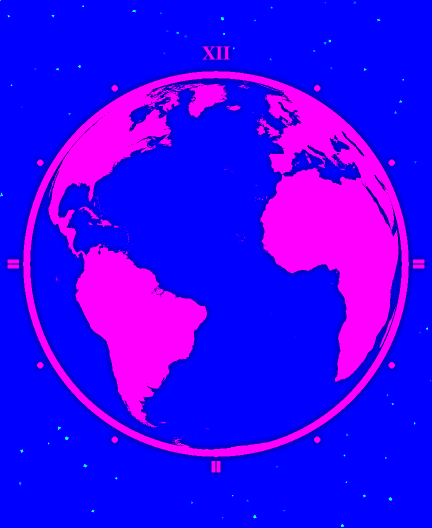
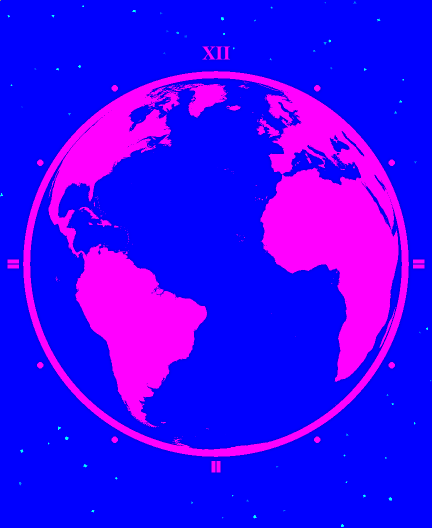
World face: match the photos' materials [skip ci]
Champagne rose gold with broad stamped terrain and fine satin grain (no blobs, no dark coastal outline);
deep violet-ultramarine lacquer with thicker veins; soft elongated window reflection instead of a round spot;
brighter polished hands.

Claude-Session: https://claude.ai/code/session_01CfMfrQKX5i7H9ozqx2Wsxs

diff --git a/Watch/WorldFaceView.swift b/Watch/WorldFaceView.swift
@@ -197,7 +197,7 @@ enum Lighting {
         let fill: SIMD3<Double>
     }
 
-    static let gold = SIMD3<Double>(1.00, 0.65, 0.32)
+    static let gold = SIMD3<Double>(1.00, 0.80, 0.55)   // champagne rose gold, as in the shader
 
     /// Same lights as the shader: "up" is opposite to gravity; screen y points down.
     static func lights(_ g: SIMD3<Double>) -> Lights {
@@ -213,7 +213,7 @@ enum Lighting {
     }
 
     /// Polished rose gold seen straight on, for a surface with this normal (envMetal in WorldDial.fsh).
-    static func metalColor(normal n: SIMD3<Double>, lights: Lights, boost: Double = 1.25) -> Color {
+    static func metalColor(normal n: SIMD3<Double>, lights: Lights, boost: Double = 1.4) -> Color {
         let v = SIMD3<Double>(0, 0, 1)
         let nov = max(simd_dot(n, v), 0.001)
         let r = 2 * nov * n - v
@@ -222,7 +222,7 @@ enum Lighting {
         let room = (0.03 + t * t) * viewer
         let k = min(max(simd_dot(r, lights.key), 0), 1)
         let f = min(max(simd_dot(r, lights.fill), 0), 1)
-        let e = 8 + (1 - 0.25) * 70.0
+        let e = 8 + (1 - 0.1) * 70.0   // polished hands: sharper than the satin relief
         let env = room + 1.6 * pow(k, e) + 4 * pow(k, e * 5) + 1.1 * pow(f, e * 0.7)
         let fres = gold + (SIMD3<Double>(repeating: 1) - gold) * pow(1 - nov, 5)
         let c = fres * env * boost

diff --git a/tools/textures/gen_world_dial.py b/tools/textures/gen_world_dial.py
@@ -147,15 +147,16 @@ def main(geojson, out_dir):
     d_in = ndimage.distance_transform_edt(land_bin)          # inside land, distance to coast
     d_out = ndimage.distance_transform_edt(~land_bin)        # in ocean, distance to coast
 
-    # --- stamped rose-gold relief: raised shoulder at the coast, ridged mountains, crumpled leaf texture
-    shoulder = np.clip(d_in / (5 * SS), 0, 1)
+    # --- stamped rose-gold relief, like the photos: broad terrain (ranges, plateaus) under a fine satin grain,
+    # with a thin crisp bevel at the coast. No mid-size blobs: those read as cork / plastic.
+    shoulder = np.clip(d_in / (2.2 * SS), 0, 1)
     shoulder = shoulder * shoulder * (3 - 2 * shoulder)
-    mountains = ridged(shape, 7, 5, 11)
-    mountains = np.clip((mountains - 0.35) / 0.65, 0, 1) ** 1.6
-    inland = np.clip(d_in / (22 * SS), 0, 1)
-    leaf = crumple(shape, 9000, 5) * 0.55 + crumple(shape, 36000, 6) * 0.30
-    grain = fbm(shape, 140, 2, 9) * 0.12
-    gold_h = 0.42 * shoulder + 0.38 * mountains * inland * shoulder + 0.22 * (1 - leaf) * shoulder + grain * shoulder
+    terrain = ridged(shape, 5, 5, 11)
+    terrain = np.clip((terrain - 0.30) / 0.70, 0, 1) ** 1.3
+    folds = ridged(shape, 22, 3, 12) * 0.35                     # creases of the stamping, softer than the ranges
+    inland = np.clip(d_in / (10 * SS), 0, 1)
+    grain = fbm(shape, 260, 2, 9) * 0.06                         # satin grain
+    gold_h = 0.22 * shoulder + (0.55 * terrain + folds) * inland * shoulder + grain * shoulder
     gold_h = gold_h * land
 
     # --- globe rim (half-round raised gold bezel) and applied markers
@@ -178,8 +179,10 @@ def main(geojson, out_dir):
     warp_y = fbm(shape, 4, 3, 32) * 40 * SS
     yy, xx = np.mgrid[0:GH, 0:GW]
     flow = ndimage.map_coordinates(fbm(shape, 9, 4, 33), [np.clip(yy + warp_y, 0, GH - 1), np.clip(xx + warp_x, 0, GW - 1)], order=1)
-    meniscus = np.clip(d_out / (9 * SS), 0, 1) ** 0.6
-    thick_globe = (0.78 + 0.28 * flow) * (0.45 + 0.55 * meniscus)
+    meniscus = np.clip(d_out / (4 * SS), 0, 1) ** 0.6
+    veins = ridged(shape, 6, 4, 34)
+    veins = np.clip((veins - 0.66) / 0.34, 0, 1) ** 1.6               # thin branching streaks of thicker lacquer
+    thick_globe = (0.75 + 0.30 * flow + 1.1 * veins) * (0.6 + 0.4 * meniscus)
     space = ~globe
     thick_space = 2.4 + 0.25 * fbm(shape, 5, 3, 41)    # deeper, darker lacquer outside the globe
     thickness = np.where(globe, thick_globe, thick_space)
@@ -188,14 +191,13 @@ def main(geojson, out_dir):
     # --- height field of the metal (gold relief or base), plus the globe dome
     Rs = R * 1.9                                            # shallow spherical dome
     dome = np.sqrt(np.clip(Rs ** 2 - np.minimum(r_px, R) ** 2, 0, None)) - np.sqrt(Rs ** 2 - R ** 2)
-    relief_scale = 7.0 * SS
+    relief_scale = 9.0 * SS
     metal_h = dome + relief_scale * np.where(gold_mask > 0.5, height_metal, base)
 
     gy, gx = np.gradient(ndimage.gaussian_filter(metal_h, 0.6))
     n_metal = np.stack([-gx, -gy, np.ones_like(gx)], -1)
 
-    # Hammered / stamped facets: small flat planes with their own tilt. Polished gold reads as gold because each
-    # facet either mirrors a light (flash) or the dark room (deep brown) — not a smooth matte gradient.
+    # Fine satin micro-facets on the gold: tiny, low tilt — a sparkle in the grain, not visible patches.
     def facets(n_points, seed, amount):
         r = np.random.default_rng(seed)
         pts = r.random((n_points, 2)) * np.array(shape)
@@ -204,7 +206,7 @@ def main(geojson, out_dir):
         tilt = r.normal(0, amount, (n_points, 2))
         return tilt[idx].reshape(shape[0], shape[1], 2)
 
-    tilt = facets(9000, 51, 0.20) + facets(40000, 52, 0.07)
+    tilt = facets(160000, 52, 0.06)
     on_gold = (land * globe * shoulder)[..., None]
     n_metal[..., 0:2] += tilt * on_gold
     n_metal /= np.linalg.norm(n_metal, axis=-1, keepdims=True)
@@ -226,7 +228,7 @@ def main(geojson, out_dir):
     flakes *= (gold_mask < 0.5)
 
     # --- ambient occlusion: lacquer next to raised gold is shaded a little
-    ao = 1 - 0.35 * np.clip(ndimage.gaussian_filter(gold_mask, 3 * SS) - gold_mask, 0, 1) * 2
+    ao = 1 - 0.12 * np.clip(ndimage.gaussian_filter(gold_mask, 1.5 * SS) - gold_mask, 0, 1) * 2
 
     material = gold_mask
     b_chan = np.where(material > 0.5, np.clip(height_metal, 0, 1), np.clip(thickness / 2.8, 0, 1))

diff --git a/tools/textures/preview_shader.py b/tools/textures/preview_shader.py
@@ -8,9 +8,9 @@ import sys
 import numpy as np
 from PIL import Image
 
-GOLD = np.array([1.00, 0.65, 0.32])        # rose-yellow gold reflectance (display-referred)
-SIGMA = np.array([5.0, 3.1, 0.38])         # blue lacquer absorption per unit thickness (absorbs red, green)
-PIGMENT = np.array([0.010, 0.028, 0.20])   # light scattered back by the blue pigment
+GOLD = np.array([1.00, 0.80, 0.55])        # pale champagne rose gold (5N, satin), display-referred
+SIGMA = np.array([3.4, 4.2, 0.55])         # ultramarine lacquer: absorbs green most, a little red passes (violet cast)
+PIGMENT = np.array([0.030, 0.018, 0.21])   # light scattered back by the pigment (violet-blue)
 
 
 def norm(v):
@@ -40,13 +40,15 @@ def env_metal(r, up, key, fill, rough, viewer_dark=0.55):
     return room + 1.6 * k ** e + 4.0 * k ** (e * 5) + 1.1 * f ** (e * 0.7)
 
 
-def env_coat(r, key, fill):
+def env_coat(r, up, key, fill):
+    """What the polished lacquer mirrors: a soft, elongated window (not a disk) and a broad bright ceiling sheen."""
+    side = norm(np.cross(np.broadcast_to(up, r.shape), np.broadcast_to(key, r.shape)) + 1e-9)
+    along = dot(r, side)                       # across the window
     k = dot(r, key)
-    f = dot(r, fill)
-    box = smooth(0.986, 0.993, k) * 14.0 + np.clip(k, 0, 1) ** 40 * 1.2
-    win = smooth(0.965, 0.978, f) * 6.0
-    room = 0.05 + 0.10 * np.clip(r[..., 2:3], 0, 1)
-    return box + win + room
+    window = smooth(0.90, 0.97, k + 0.9 * along * along) * smooth(-0.35, -0.2, -np.abs(along)) * 2.2
+    sheen = 0.25 * smooth(0.2, 0.95, dot(r, up))
+    room = 0.04
+    return window + sheen + room
 
 
 def decode(enc):
@@ -115,17 +117,17 @@ def shade(metal, mat, g, view=None):
     r = 2 * nov * n_metal - v
     fres = GOLD + (1 - GOLD) * (1 - nov) ** 5
     # Light bouncing between ridges of the relief picks up the gold colour twice (deeper, more saturated).
-    cavity = np.clip(0.55 + 0.6 * hgt, 0, 1)
-    gold = fres * env_metal(r, upn, key, fill, 0.45) * (cavity + (1 - cavity) * GOLD)
+    cavity = np.clip(0.75 + 0.5 * hgt, 0, 1)
+    gold = 1.18 * fres * env_metal(r, upn, key, fill, 0.2, 0.2) * (cavity + (1 - cavity) * GOLD)
 
     ncv = np.clip(dot(n_coat, v), 0.001, 1)
     rc = 2 * ncv * n_coat - v
     fc = 0.04 + 0.96 * (1 - ncv) ** 5
-    coat = fc * env_coat(rc, key, fill)
+    coat = fc * env_coat(rc, upn, key, fill)
     rb = 2 * dot(n_metal, v) * n_metal - v
     path = hgt * 2.8 * (0.5 + 0.5 / np.maximum(ncv, 0.25))
     trans = np.exp(-SIGMA * path)
-    base = 0.9 * env_metal(rb, upn, key, fill, 0.2, 0.0)
+    base = 0.7 * env_metal(rb, upn, key, fill, 0.1, 0.0)
     pigment = PIGMENT * (0.35 + 0.65 * np.clip(dot(n_coat, key), 0, 1))
     body = (base * trans + pigment) * (1 - fc) * ao
 
@@ -141,7 +143,7 @@ def shade(metal, mat, g, view=None):
     col = col * (1 - 0.45 * t_edge ** 3)
     nb = norm(np.concatenate([n_edge * (t_edge * 1.1), np.ones_like(t_edge)], -1))
     rb2 = 2 * dot(nb, v) * nb - v
-    col = col + t_edge ** 2 * 0.06 * env_coat(rb2, key, fill)
+    col = col + t_edge ** 2 * 0.25 * env_coat(rb2, upn, key, fill)
     col = 1 - np.exp(-col * 1.2)
     return np.clip(col, 0, 1) ** (1 / 1.15)
 
